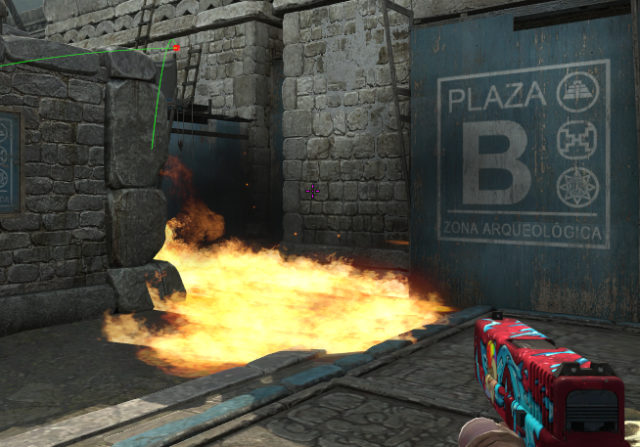
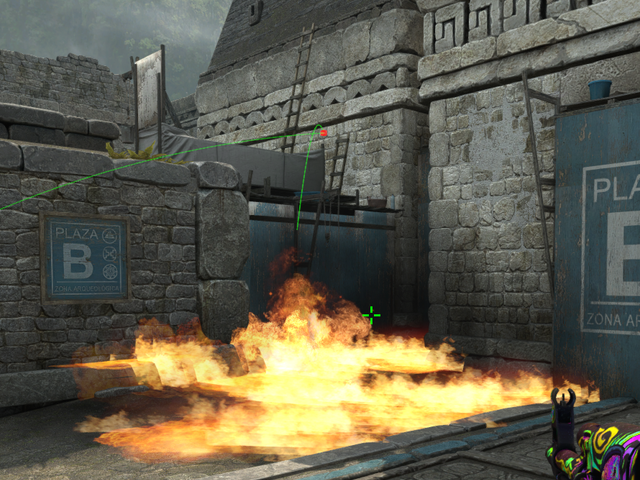
ancient improvements

diff --git a/app/src/data/ancient.ts b/app/src/data/ancient.ts
@@ -14,18 +14,18 @@ export const ancientLineups: MapLineups = {
     },
     {
       name: "Short B smoke from ruins",
-      resultImage: "missing.png",
-      aimImage: "ancient/t/smokes/ancient-short-smoke-from-ruins.png",
-      posImage: "missing.png",
+      resultImage: "ancient/t/smokes/ancient-result-short-smoke-from-ruins.png",
+      aimImage: "ancient/t/smokes/ancient-aim-short-smoke-from-ruins.png",
+      posImage: "ancient/t/smokes/ancient-pos-short-smoke-from-ruins.png",
       ticks: "64/128",
       throwType: "jump",
       side: "t",
     },
     {
       name: "Cave smoke from ruins",
-      resultImage: "missing.png",
-      aimImage: "ancient/t/smokes/ancient-cave-smoke-from-ruins.png",
-      posImage: "missing.png",
+      resultImage: "ancient/t/smokes/ancient-result-cave-smoke-from-ruins.png",
+      aimImage: "ancient/t/smokes/ancient-aim-cave-smoke-from-ruins.png",
+      posImage: "ancient/t/smokes/ancient-pos-cave-smoke-from-ruins.png",
       ticks: "64/128",
       throwType: "jump",
       side: "t",
@@ -65,7 +65,7 @@ export const ancientLineups: MapLineups = {
       name: "Ancient wood molo from ruins",
       resultImage: "ancient/t/molo/ancient-result-wood-molo-from-ramp.png",
       aimImage: "ancient/t/molo/ancient-aim-wood-molo-from-ramp.png",
-      posImage: "missing.png",
+      posImage: "ancient/t/molo/ancient-pos-wood-molo-from-ramp.png",
       ticks: "64",
       throwType: "normal",
       side: "t",
